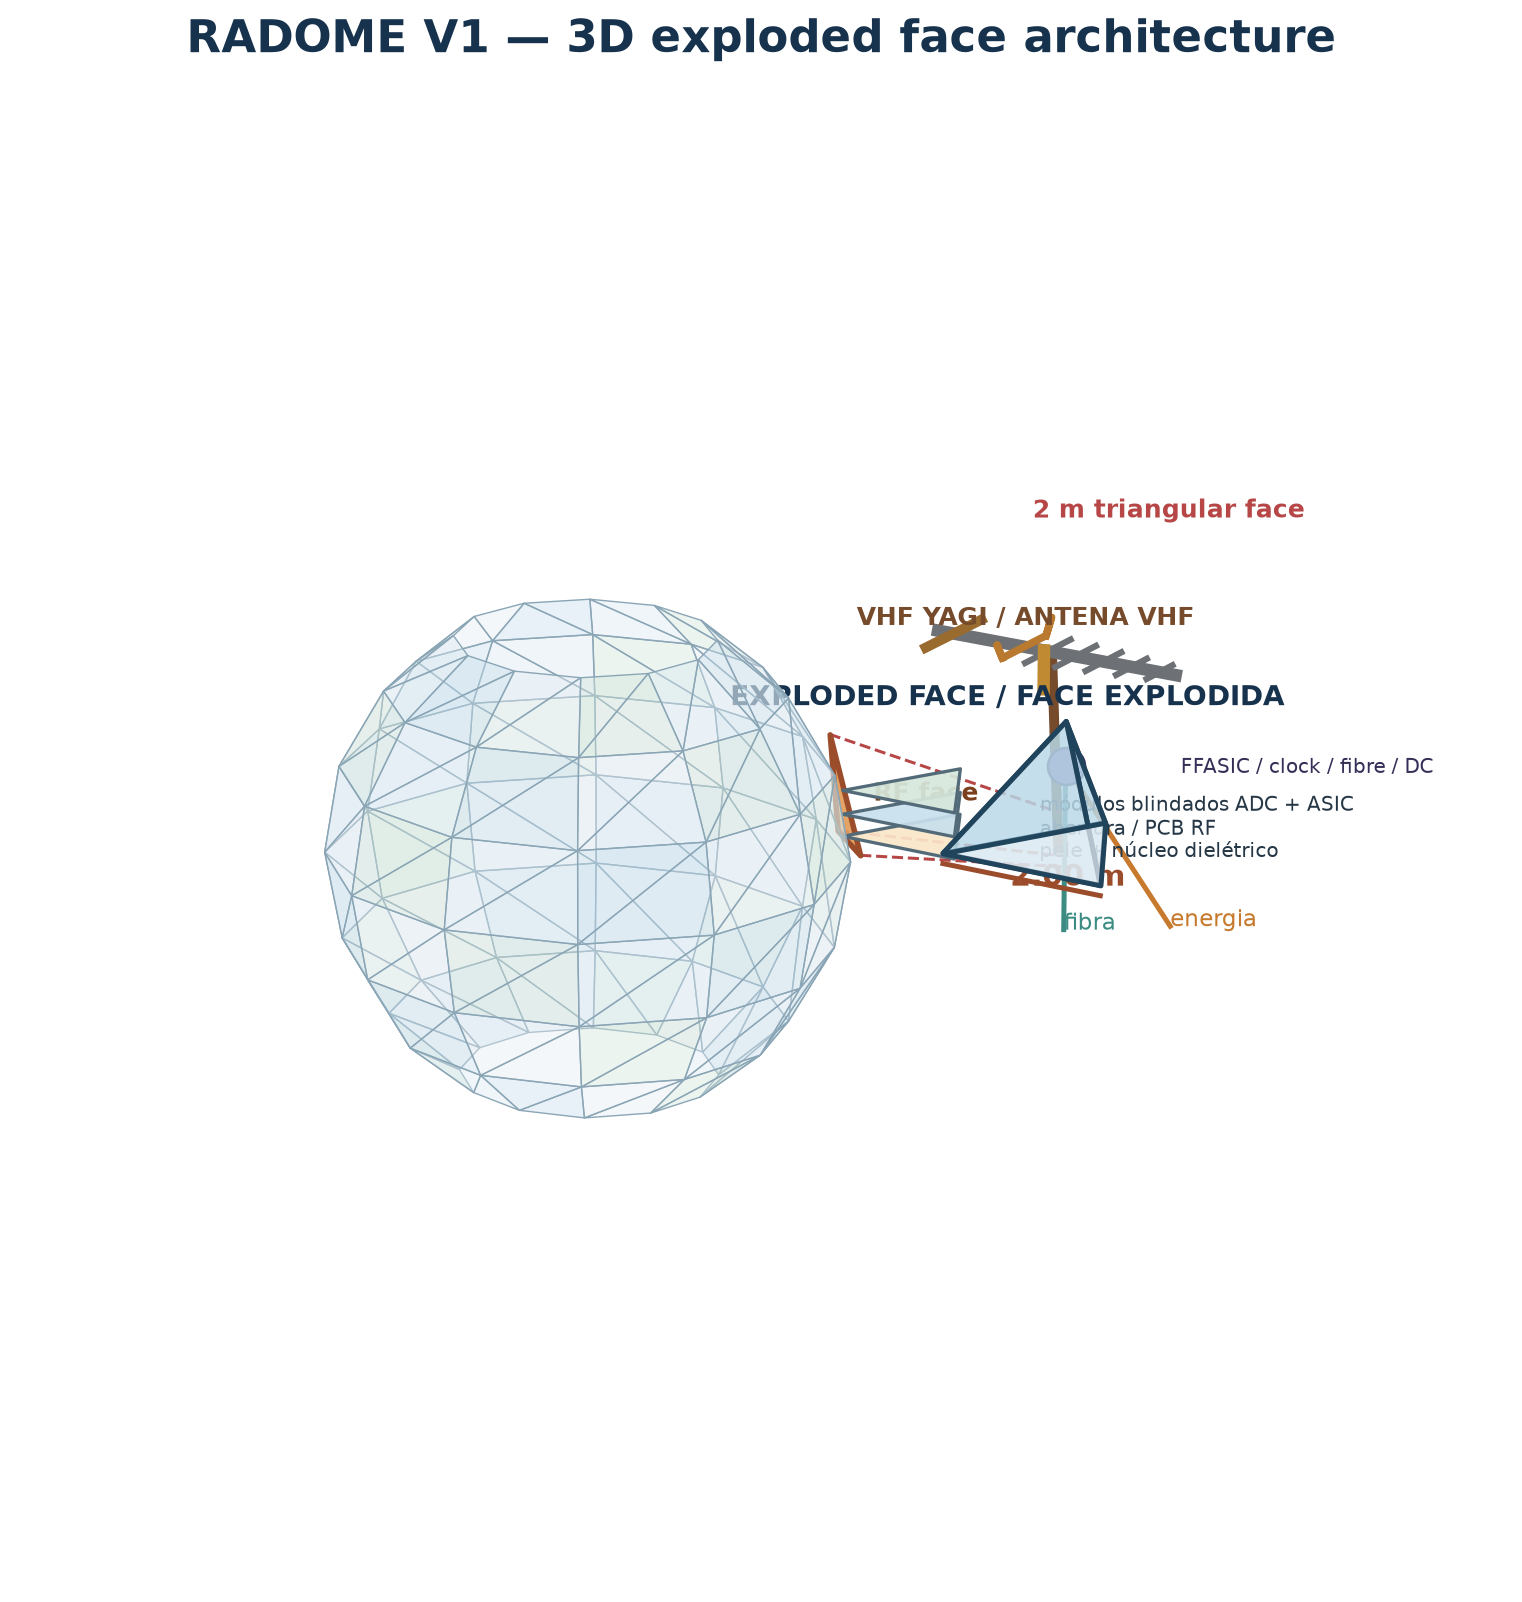
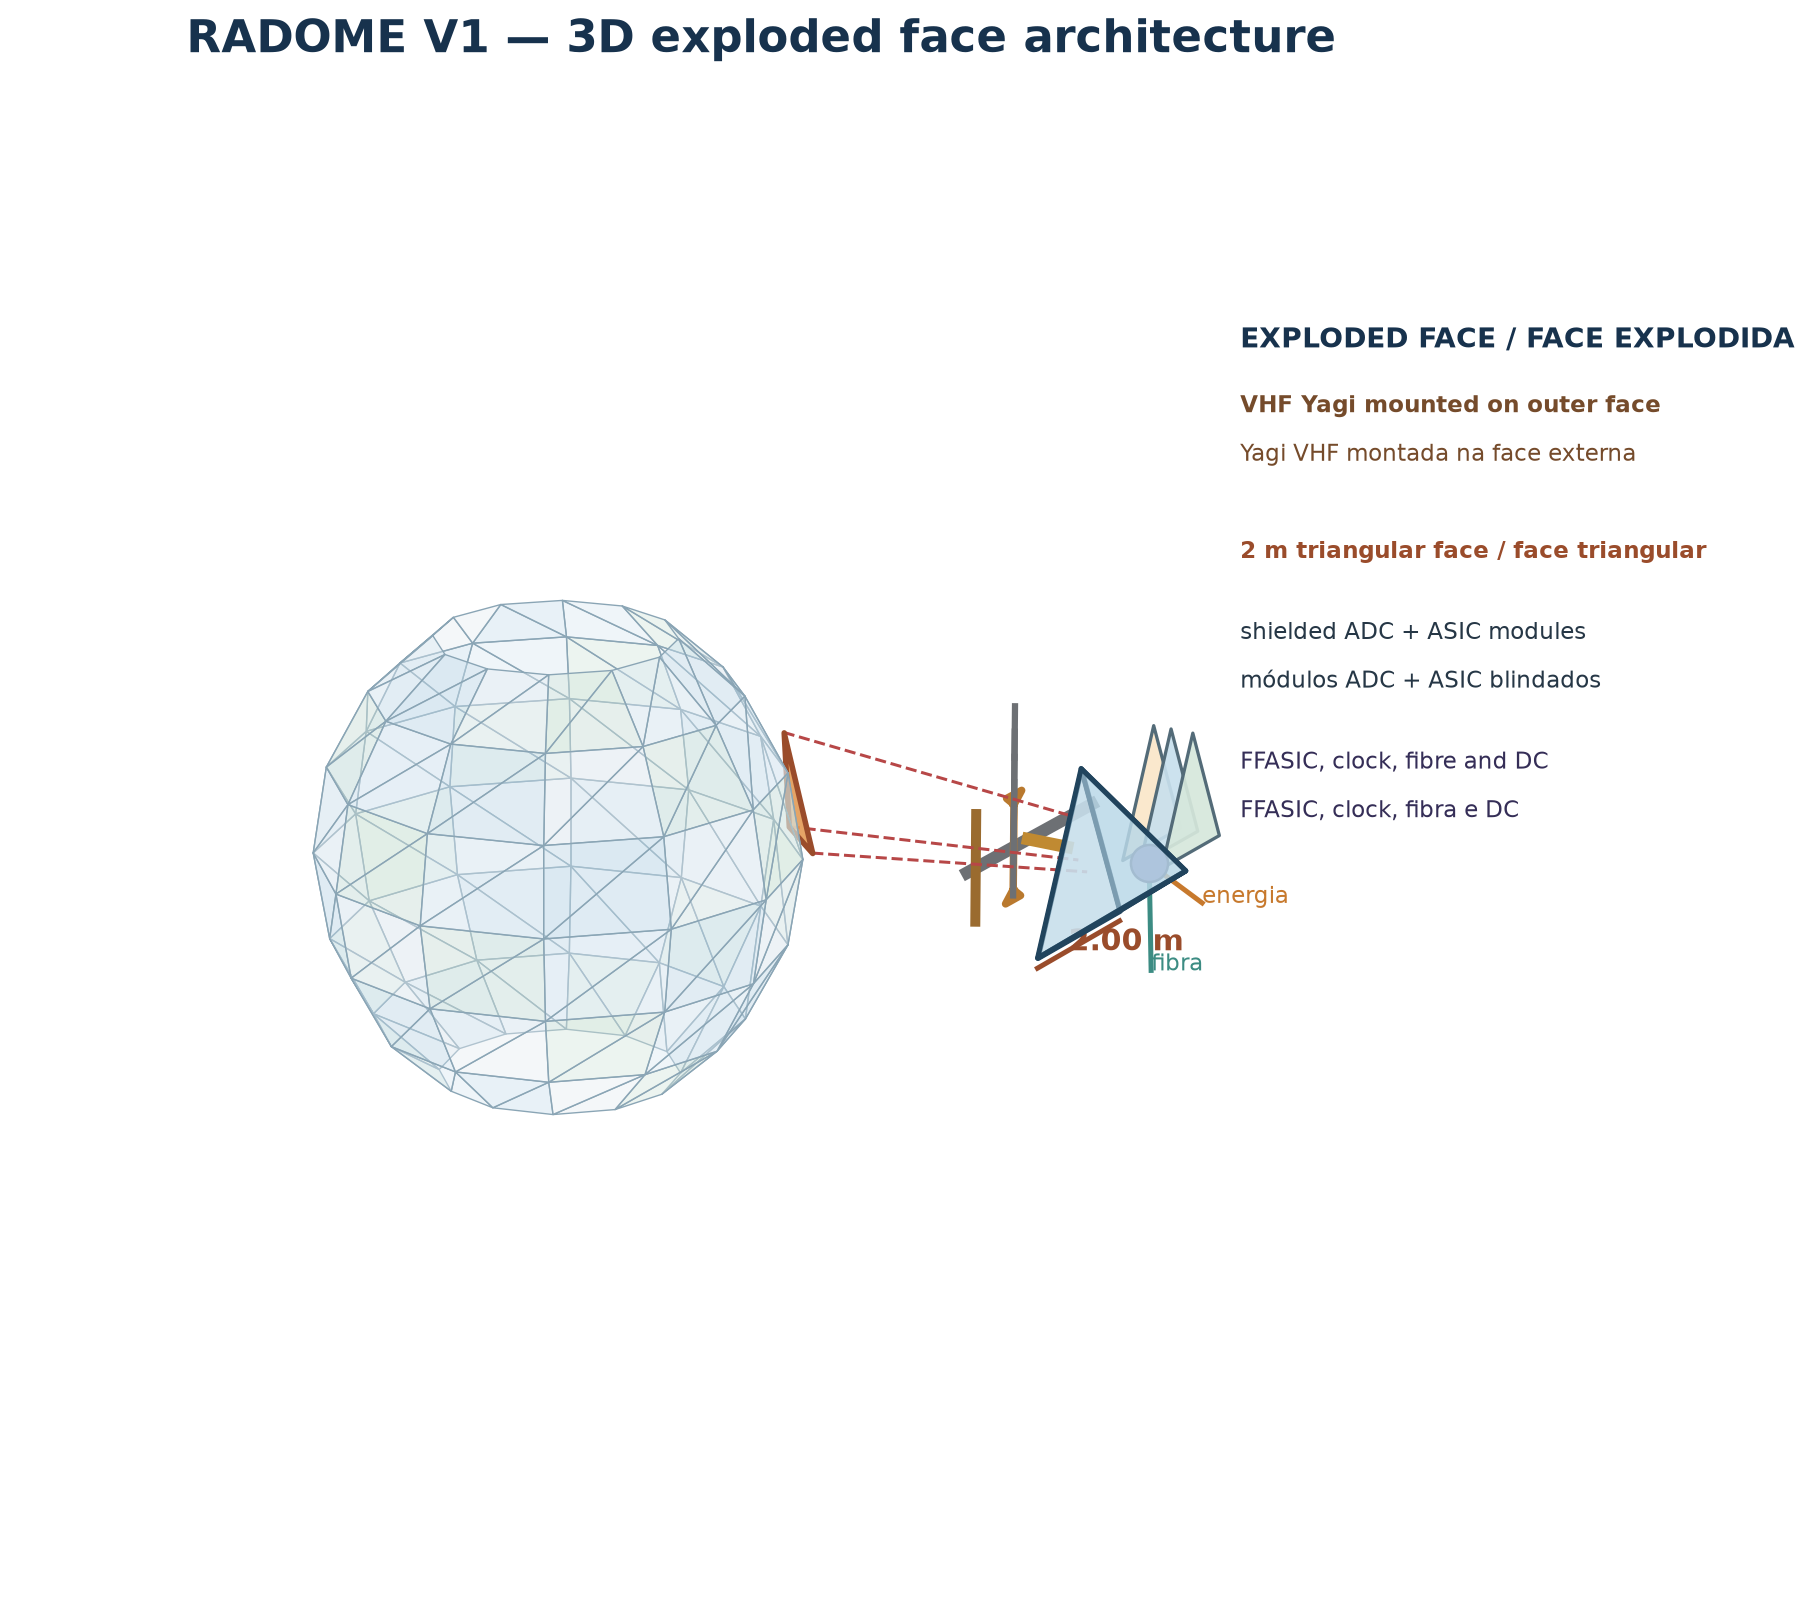
Keep updated exploded view generator

diff --git a/projeto/figures/generate_fig12_3d.py b/projeto/figures/generate_fig12_3d.py
@@ -43,54 +43,50 @@ axis = axis / np.linalg.norm(axis)
 axis2 = np.cross(normal, axis)
 tri = [face_center + 0.85 * (np.cos(k * 2 * np.pi / 3) * axis + np.sin(k * 2 * np.pi / 3) * axis2) for k in range(3)]
 ax.add_collection3d(Poly3DCollection([tri], facecolors="#e39a55", edgecolors="#9a4c2b", linewidths=2.2, alpha=0.9))
-ax.text(*(face_center * 1.12), "RF face", color="#7c3f1d", fontsize=10, weight="bold")
 
 # Exploded triangular pyramid module, offset from the radome.
-offset = np.array([5.2, 1.8, 0.6])
-base = np.array([[-1.0, -1.0, 0.0], [1.0, -1.0, 0.0], [0.0, 0.95, 0.0]]) + offset
-apex = np.array([0.0, 0.0, 1.45]) + offset
+offset = np.array([6.2, 2.0, 0.6])
+# The triangular face lies in the Y-Z tangent plane. Its RF normal is X,
+# so the external Yagi is mounted parallel to the face and projects outward.
+base = offset + np.array([[0.0, -1.0, -1.0], [0.0, 1.0, -1.0], [0.0, 0.0, 0.95]])
+apex = offset + np.array([1.45, 0.0, 0.0])
 pyramid_faces = [(base[0], base[1], apex), (base[1], base[2], apex), (base[2], base[0], apex)]
 ax.add_collection3d(Poly3DCollection(pyramid_faces, facecolors="#b9d8e8", edgecolors="#21445d", linewidths=2, alpha=0.6))
 ax.add_collection3d(Poly3DCollection([base], facecolors="#e5eef4", edgecolors="#21445d", linewidths=2, alpha=0.75))
-ax.text(*(offset + np.array([0.0, -1.35, 2.0])), "EXPLODED FACE / FACE EXPLODIDA", ha="center", color="#17324d", fontsize=11, weight="bold")
 
 # Exploded internal layers as smaller triangular plates.
-for z, color, label in [(0.22, "#fae6c9", "pele + núcleo dielétrico"), (0.48, "#c8e0ed", "abertura / PCB RF"), (0.76, "#d6e8dc", "módulos blindados ADC + ASIC")]:
-    layer = base * 0.72 + np.array([0.0, 0.0, z])
+for index, (x, color, label) in enumerate([(0.18, "#fae6c9", "pele + núcleo dielétrico"), (0.42, "#c8e0ed", "abertura / PCB RF"), (0.72, "#d6e8dc", "módulos blindados ADC + ASIC")]):
+    layer = offset + np.column_stack((np.full(3, x), base[:, 1] * 0.72, base[:, 2] * 0.72))
     ax.add_collection3d(Poly3DCollection([layer], facecolors=color, edgecolors="#536b78", linewidths=1.3, alpha=0.92))
-    ax.text(*(layer.mean(axis=0) + np.array([1.55, 0.0, 0.04])), label, fontsize=8, color="#263746")
 
 # Central face module and optical/power exits.
-central = offset + np.array([0.0, 0.0, 0.93])
+central = offset + np.array([0.95, 0.0, 0.0])
 ax.scatter(*central, s=220, c="#7c68a8", edgecolors="#352e57", depthshade=False)
-ax.text(*(central + np.array([1.45, 0.0, 0.18])), "FFASIC / clock / fibre / DC", ha="left", fontsize=8, color="#352e57")
-for end, color, label in [(offset + np.array([0.0, 0.0, -1.0]), "#3c8c83", "fibra"), (offset + np.array([1.35, 0.0, -0.7]), "#c7792d", "energia")]:
+for end, color, label in [(offset + np.array([1.0, 0.0, -1.25]), "#3c8c83", "fibra"), (offset + np.array([1.0, 1.25, -0.8]), "#c7792d", "energia")]:
     ax.plot([central[0], end[0]], [central[1], end[1]], [central[2], end[2]], color=color, linewidth=2)
     ax.text(*end, label, fontsize=9, color=color)
 
 # External VHF Yagi: mast, longitudinal boom, reflector, folded driven element and directors.
-mast_base = offset + np.array([0.0, -0.15, 0.0])
-mast_top = offset + np.array([0.0, -0.35, 2.35])
+mast_base = offset + np.array([-0.18, 0.0, 0.0])
+mast_top = offset + np.array([-0.72, 0.0, 0.0])
 ax.plot([mast_base[0], mast_top[0]], [mast_base[1], mast_top[1]], [mast_base[2], mast_top[2]], color="#754b2b", linewidth=4)
-boom_start = offset + np.array([-1.45, -0.35, 2.35])
-boom_end = offset + np.array([1.55, -0.35, 2.35])
+boom_start = offset + np.array([-0.72, -1.45, 0.0])
+boom_end = offset + np.array([-0.72, 1.55, 0.0])
 ax.plot([boom_start[0], boom_end[0]], [boom_start[1], boom_end[1]], [boom_start[2], boom_end[2]], color="#6d7074", linewidth=5)
 # Reflector, driven folded loop and tapered directors.
-reflector = offset + np.array([-1.25, -0.35, 2.35])
-ax.plot([reflector[0], reflector[0]], [reflector[1] - 0.63, reflector[1] + 0.63], [reflector[2], reflector[2]], color="#9a6b2f", linewidth=4)
-driven_x = offset[0] - 0.35
-loop_y = offset[1] - 0.35
-loop_z = offset[2] + 2.35
-loop_y_values = [loop_y - 0.5, loop_y - 0.62, loop_y - 0.62, loop_y - 0.5, loop_y + 0.5, loop_y + 0.62, loop_y + 0.62, loop_y + 0.5]
-loop_z_values = [loop_z, loop_z + 0.18, loop_z + 0.18, loop_z, loop_z, loop_z + 0.18, loop_z + 0.18, loop_z]
+reflector = offset + np.array([-0.72, -1.25, 0.0])
+ax.plot([reflector[0], reflector[0]], [reflector[1], reflector[1]], [reflector[2] - 0.63, reflector[2] + 0.63], color="#9a6b2f", linewidth=4)
+driven_x = offset[0] - 0.72
+loop_center_y = offset[1] - 0.35
+loop_z_values = [offset[2] - 0.5, offset[2] - 0.62, offset[2] - 0.62, offset[2] - 0.5, offset[2] + 0.5, offset[2] + 0.62, offset[2] + 0.62, offset[2] + 0.5]
+loop_y_values = [loop_center_y, loop_center_y - 0.18, loop_center_y + 0.18, loop_center_y, loop_center_y, loop_center_y - 0.18, loop_center_y + 0.18, loop_center_y]
 ax.plot([driven_x] * len(loop_y_values), loop_y_values, loop_z_values, color="#b9792e", linewidth=3)
-for index, x in enumerate(np.linspace(-0.05, 1.35, 5)):
-    top = offset + np.array([x, -0.35, 2.35])
+for index, z in enumerate(np.linspace(-0.05, 1.35, 5)):
+    top = offset + np.array([-0.72, -0.35, z])
     half_span = 0.52 - index * 0.055
-    ax.plot([top[0], top[0]], [top[1] - half_span, top[1] + half_span], [top[2], top[2]], color="#6d7074", linewidth=2.5)
+    ax.plot([top[0], top[0]], [top[1], top[1]], [top[2] - half_span, top[2] + half_span], color="#6d7074", linewidth=2.5)
 # Clamp and short feed stalk, matching a practical external mounting arrangement.
-ax.plot([offset[0] - 0.1, offset[0] - 0.1], [offset[1] - 0.35, offset[1] - 0.35], [offset[2] + 1.9, offset[2] + 2.35], color="#c08a32", linewidth=5)
-ax.text(*(offset + np.array([0.05, -1.05, 2.85])), "VHF YAGI / ANTENA VHF", ha="center", fontsize=10, color="#754b2b", weight="bold")
+ax.plot([offset[0] - 0.18, offset[0] - 0.72], [offset[1], offset[1]], [offset[2], offset[2]], color="#c08a32", linewidth=5)
 
 # Dimension annotation for the 2 m triangular side.
 p0, p1 = base[0], base[1]
@@ -101,12 +97,40 @@ ax.text(*((p0 + p1) / 2 + np.array([0.0, -0.25, -0.12])), "2.00 m", color="#9a4c
 for p in tri:
     ep = offset + (p - face_center) * 0.45
     ax.plot([p[0], ep[0]], [p[1], ep[1]], [p[2], ep[2]], linestyle="--", color="#b74747", linewidth=1.2)
-ax.text(3.7, 3.7, 3.7, "2 m triangular face", color="#b74747", fontsize=10, weight="bold")
+fig.text(0.69, 0.78, "EXPLODED FACE / FACE EXPLODIDA", color="#17324d", fontsize=11, weight="bold")
+fig.text(0.69, 0.74, "VHF Yagi mounted on outer face", color="#754b2b", fontsize=9, weight="bold")
+fig.text(0.69, 0.71, "Yagi VHF montada na face externa", color="#754b2b", fontsize=9)
+fig.text(0.69, 0.65, "2 m triangular face / face triangular", color="#9a4c2b", fontsize=9, weight="bold")
+fig.text(0.69, 0.60, "shielded ADC + ASIC modules", color="#263746", fontsize=9)
+fig.text(0.69, 0.57, "módulos ADC + ASIC blindados", color="#263746", fontsize=9)
+fig.text(0.69, 0.52, "FFASIC, clock, fibre and DC", color="#352e57", fontsize=9)
+fig.text(0.69, 0.49, "FFASIC, clock, fibra e DC", color="#352e57", fontsize=9)
+
+# Orthographic inset: the Yagi is mounted parallel to the external face plane.
+inset = fig.add_axes([0.68, 0.08, 0.28, 0.25])
+inset.set_facecolor("#f7fafc")
+inset.set_xlim(-1.8, 1.8)
+inset.set_ylim(-1.2, 2.3)
+inset.axis("off")
+inset.set_title("External VHF Yagi / Yagi VHF externa", fontsize=9, color="#17324d", weight="bold", pad=4)
+# triangular face edge and normal mast
+inset.plot([-1.45, 0.0, 1.45, -1.45], [0.0, 1.8, 0.0, 0.0], color="#21445d", linewidth=2)
+inset.plot([0.0, 0.0], [0.0, -0.55], color="#c08a32", linewidth=3)
+# Yagi boom vertical, directors horizontal, reflector and folded driven element
+inset.plot([0.0, 0.0], [-0.45, 1.95], color="#6d7074", linewidth=4)
+inset.plot([0.0, 0.0], [1.72, 1.72], color="#9a6b2f", linewidth=4)
+for y in np.linspace(-0.15, 1.4, 5):
+    half = 0.62 - (y + 0.15) * 0.08
+    inset.plot([-half, half], [y, y], color="#6d7074", linewidth=2)
+inset.plot([-0.42, -0.68, 0.68, 0.42], [0.72, 0.88, 0.88, 0.72], color="#b9792e", linewidth=2)
+inset.annotate("mast normal to face", xy=(0, -0.45), xytext=(0.65, -0.8), fontsize=7, color="#754b2b", arrowprops={"arrowstyle": "->", "color": "#754b2b"})
+inset.text(0.05, 2.02, "boom", fontsize=7, color="#263746")
+inset.text(0.7, 1.25, "directors", fontsize=7, color="#263746")
 
 ax.set_title("RADOME V1 — 3D exploded face architecture", fontsize=18, color="#17324d", pad=18, weight="bold")
 ax.set_axis_off()
-ax.set_xlim(-3.8, 8.0)
-ax.set_ylim(-3.8, 5.4)
+ax.set_xlim(-3.8, 9.0)
+ax.set_ylim(-3.8, 5.8)
 ax.set_zlim(-3.8, 5.0)
 ax.view_init(elev=19, azim=-58)
 ax.set_box_aspect((1.35, 1.0, 1.0))
